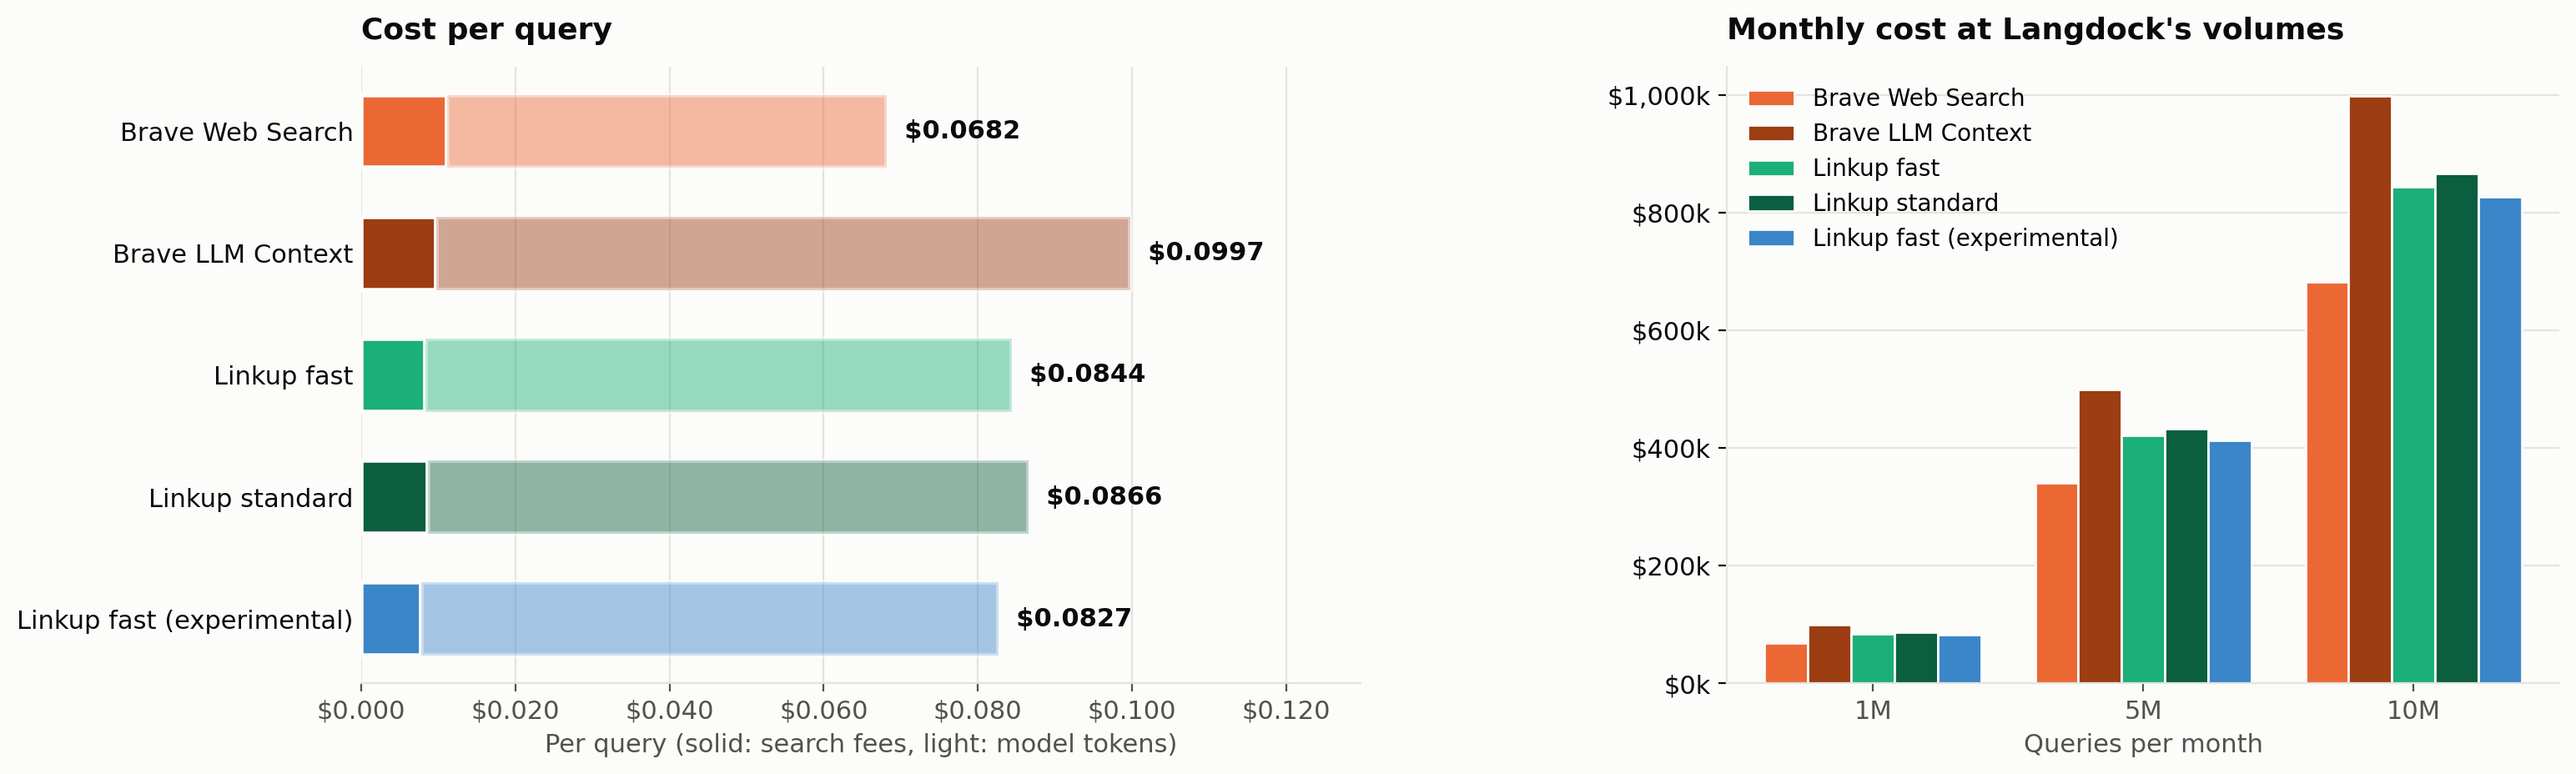
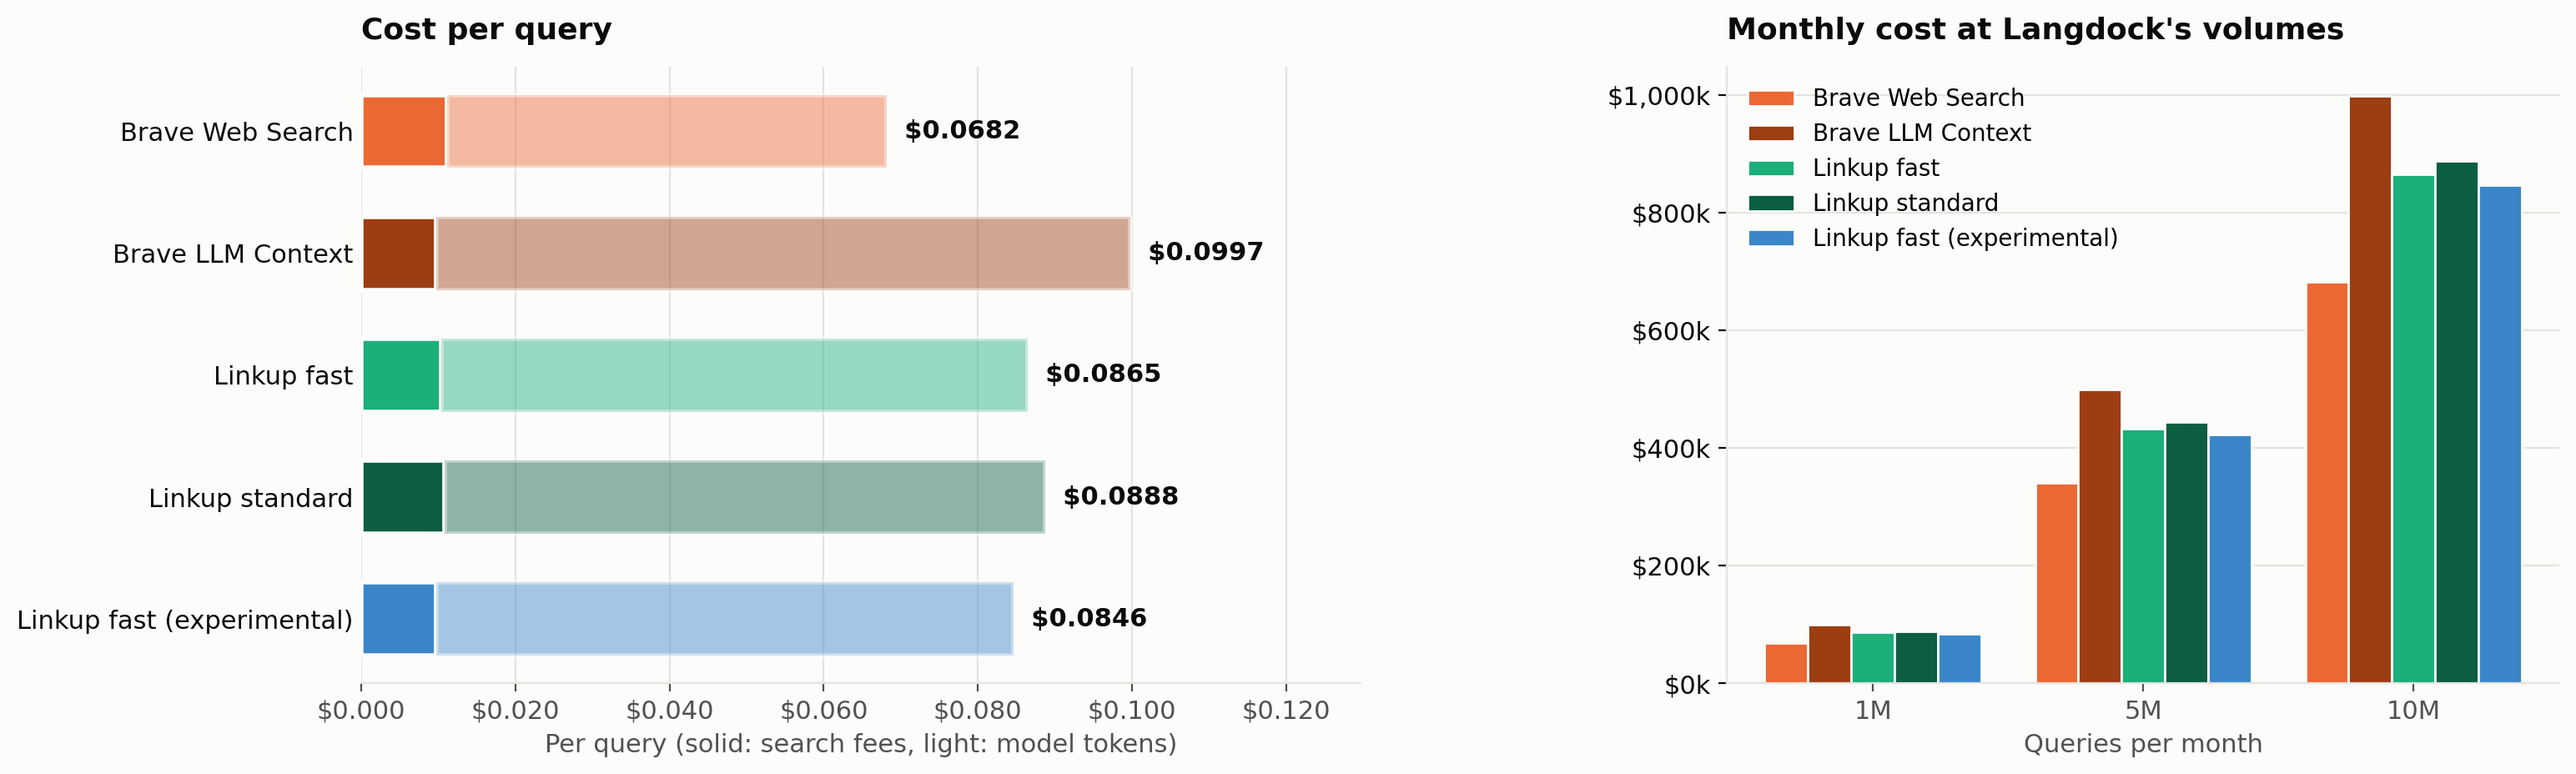
Price Linkup search at the $5 list price

diff --git a/build.py b/build.py
@@ -30,8 +30,8 @@ PRICE = {
     "sonnet_input": 2.00, "sonnet_output": 10.00, "sonnet_cache_read": 0.20, "sonnet_cache_write": 2.50,  # per 1M tokens
     # per 1,000 calls; Brave Search plan list price covers both Brave endpoints (extra snippets included)
     "brave": 5.00, "brave_llm": 5.00,
-    # Linkup searchResults (all three Linkup arms): price offered to Langdock (20% off the $5.00 list price)
-    "linkup": 4.00, "linkup_std": 4.00, "linkup_exp": 4.00,
+    # Linkup searchResults (all three Linkup arms), list price
+    "linkup": 5.00, "linkup_std": 5.00, "linkup_exp": 5.00,
 }
 VOLS = [1_000_000, 5_000_000, 10_000_000]  # Langdock's expected monthly range
 
@@ -307,7 +307,7 @@ def row(name, f):
 HEAD = ["Metric"] + [LABEL[a] for a in ARMS]
 best = lambda key, hi=True: (max if hi else min)(ARMS, key=lambda a: M[a][key])
 
-LINKUP_PRICE = "$4.00 (offered to Langdock; list $5.00)"
+LINKUP_PRICE = "$5.00 (list)"
 SETUP = table(["", *[LABEL[a] for a in ARMS]], [
     ["Model", *["`claude-sonnet-5-5`"] * len(ARMS)],
     ["Endpoint", "`/res/v1/web/search`", "`/res/v1/llm/context`", "`/v1/search`, `depth=fast`", "`/v1/search`, `depth=standard`",
@@ -414,7 +414,7 @@ Score differences between arms, per query:
 
 {SCALE}
 
-Search fees are Brave at its $5.00 list price (the Search plan covers both endpoints) and Linkup at the $4.00 per 1,000 calls offered to Langdock (20% off list); the rest of the cost comes from how much text Claude reads and writes. Prices: Sonnet 5.5 ${PRICE['sonnet_input']:.2f} / ${PRICE['sonnet_output']:.2f} per million input / output tokens (cache reads ${PRICE['sonnet_cache_read']:.2f}, cache writes ${PRICE['sonnet_cache_write']:.2f}). Any volume discount Brave offers Langdock is not included.
+Search fees are at list price: $5.00 per 1,000 calls for both Brave (the Search plan covers both endpoints) and Linkup, so cost differences come from how many searches Claude makes and how much text it reads and writes. Prices: Sonnet 5.5 ${PRICE['sonnet_input']:.2f} / ${PRICE['sonnet_output']:.2f} per million input / output tokens (cache reads ${PRICE['sonnet_cache_read']:.2f}, cache writes ${PRICE['sonnet_cache_write']:.2f}). Volume discounts on either side are not included.
 
 ## Latency
 

diff --git a/README.md b/README.md
@@ -14,8 +14,8 @@ Claude Sonnet 5.5 answered 100 of Langdock's search queries five times, each tim
 | Blind A/B win rate (ties count half) | 36% | 77% | 43% | 42% | 52% |
 | Fact-check score (0–100) | 79.4 | 86.8 | 81.5 | 80.9 | 82.8 |
 | Fully correct (fact-check) | 26 | 39 | 30 | 33 | 30 |
-| Cost per query | $0.0682 | $0.0997 | $0.0844 | $0.0866 | $0.0827 |
-| Cost per correct answer | $0.2622 | $0.2557 | $0.2813 | $0.2624 | $0.2756 |
+| Cost per query | $0.0682 | $0.0997 | $0.0865 | $0.0888 | $0.0846 |
+| Cost per correct answer | $0.2622 | $0.2557 | $0.2883 | $0.2690 | $0.2821 |
 | Median latency | 13.2s | 16.0s | 14.8s | 18.1s | 15.8s |
 
 ## Setup
@@ -26,7 +26,7 @@ Claude Sonnet 5.5 answered 100 of Langdock's search queries five times, each tim
 | Endpoint | `/res/v1/web/search` | `/res/v1/llm/context` | `/v1/search`, `depth=fast` | `/v1/search`, `depth=standard` | `/v1/search`, `depth=fast`, experimental API key |
 | Settings | `count=10`, `extra_snippets=true` | `count=10`; default 8,192-token budget and relevance threshold | `searchResults`, `maxResults=10` | `searchResults`, `maxResults=10` | `searchResults`, `maxResults=10` |
 | What Claude sees per result | title, URL, date, description, up to 5 extra snippets | title, URL, date, extracted page chunks | title, URL, content | title, URL, content | title, URL, content |
-| Search price (per 1,000) | $5.00 (list) | $5.00 (list) | $4.00 (offered to Langdock; list $5.00) | $4.00 (offered to Langdock; list $5.00) | $4.00 (offered to Langdock; list $5.00) |
+| Search price (per 1,000) | $5.00 (list) | $5.00 (list) | $5.00 (list) | $5.00 (list) | $5.00 (list) |
 | Search cap | 10 per query | 10 per query | 10 per query | 10 per query | 10 per query |
 
 Claude decides what to search for and how often. Each tool description asks for the query style its provider is built for: keyword queries for Brave, natural-language retrieval instructions for Linkup. Neither provider gets a location hint: Brave runs without `country` or `search_lang`, and Linkup has no location setting. On Brave's LLM Context endpoint, `maximum_number_of_urls=10` did not limit the response in our runs: it returned 27.9 pages per search on average, and only the token budget changed how much came back. Brave's docs say the snippet limits give way to the token budget, but don't say this for the URL limit.
@@ -93,9 +93,9 @@ Score differences between arms, per query:
 
 | Per query | Brave Web Search | Brave LLM Context | Linkup fast | Linkup standard | Linkup fast (experimental) |
 |---|---|---|---|---|---|
-| Total cost | $0.0682 | $0.0997 | $0.0844 | $0.0866 | $0.0827 |
-| Cost per correct answer | $0.2622 | $0.2557 | $0.2813 | $0.2624 | $0.2756 |
-| Search fees | $0.0112 | $0.0098 | $0.0083 | $0.0086 | $0.0078 |
+| Total cost | $0.0682 | $0.0997 | $0.0865 | $0.0888 | $0.0846 |
+| Cost per correct answer | $0.2622 | $0.2557 | $0.2883 | $0.2690 | $0.2821 |
+| Search fees | $0.0112 | $0.0098 | $0.0104 | $0.0108 | $0.0097 |
 | Model tokens | $0.0570 | $0.0900 | $0.0761 | $0.0780 | $0.0749 |
 | Searches | 2.23 | 1.95 | 2.08 | 2.16 | 1.94 |
 | Input tokens (incl. cache) | 18,488 | 29,762 | 28,439 | 31,650 | 26,181 |
@@ -103,11 +103,11 @@ Score differences between arms, per query:
 
 | Queries per month | Brave Web Search | Brave LLM Context | Linkup fast | Linkup standard | Linkup fast (experimental) |
 |---|---|---|---|---|---|
-| 1,000,000 | $68,183 | $99,740 | $84,400 | $86,597 | $82,689 |
-| 5,000,000 | $340,916 | $498,698 | $421,998 | $432,985 | $413,443 |
-| 10,000,000 | $681,833 | $997,395 | $843,997 | $865,970 | $826,886 |
+| 1,000,000 | $68,183 | $99,740 | $86,480 | $88,757 | $84,629 |
+| 5,000,000 | $340,916 | $498,698 | $432,398 | $443,785 | $423,143 |
+| 10,000,000 | $681,833 | $997,395 | $864,797 | $887,570 | $846,286 |
 
-Search fees are Brave at its $5.00 list price (the Search plan covers both endpoints) and Linkup at the $4.00 per 1,000 calls offered to Langdock (20% off list); the rest of the cost comes from how much text Claude reads and writes. Prices: Sonnet 5.5 $2.00 / $10.00 per million input / output tokens (cache reads $0.20, cache writes $2.50). Any volume discount Brave offers Langdock is not included.
+Search fees are at list price: $5.00 per 1,000 calls for both Brave (the Search plan covers both endpoints) and Linkup, so cost differences come from how many searches Claude makes and how much text it reads and writes. Prices: Sonnet 5.5 $2.00 / $10.00 per million input / output tokens (cache reads $0.20, cache writes $2.50). Volume discounts on either side are not included.
 
 ## Latency
 
